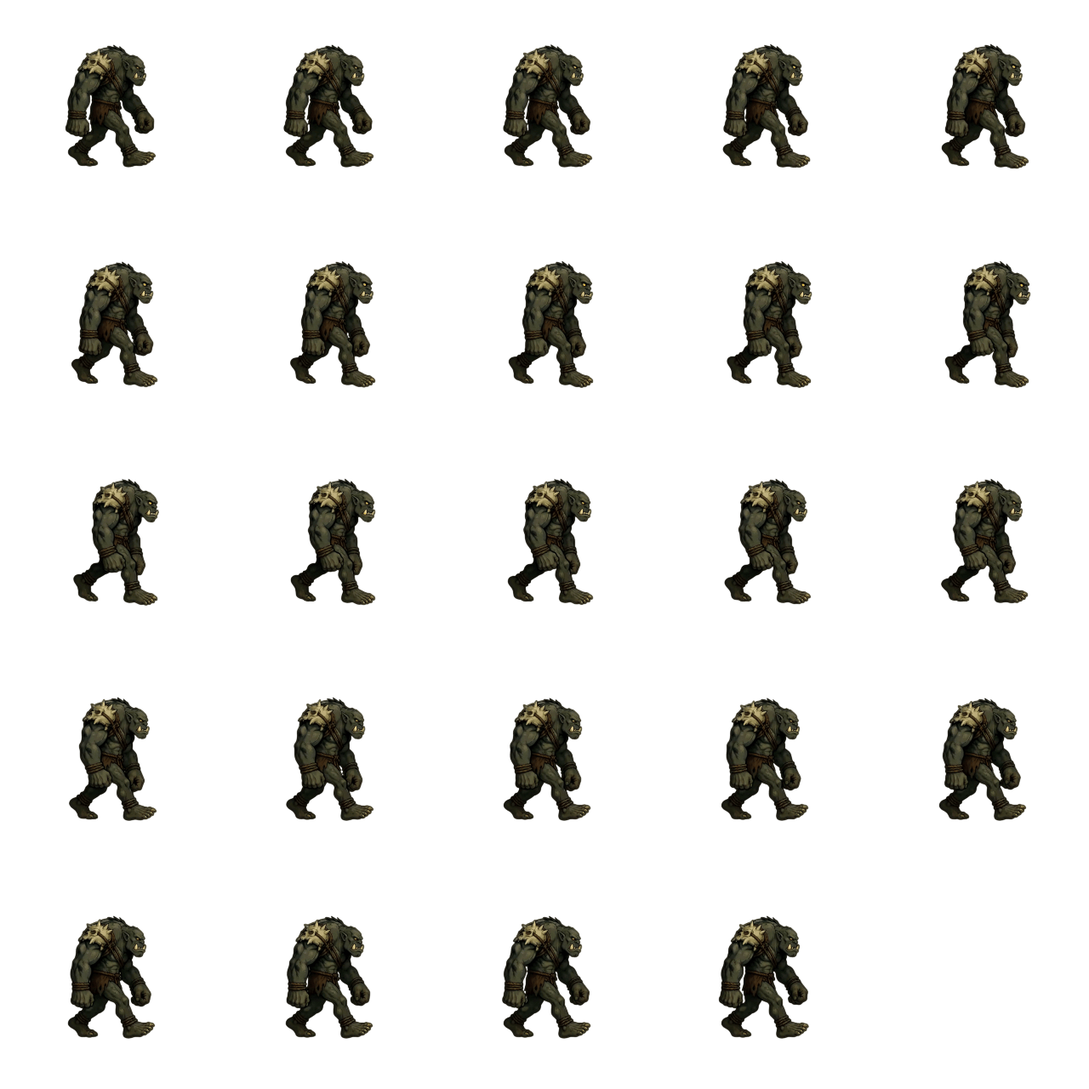
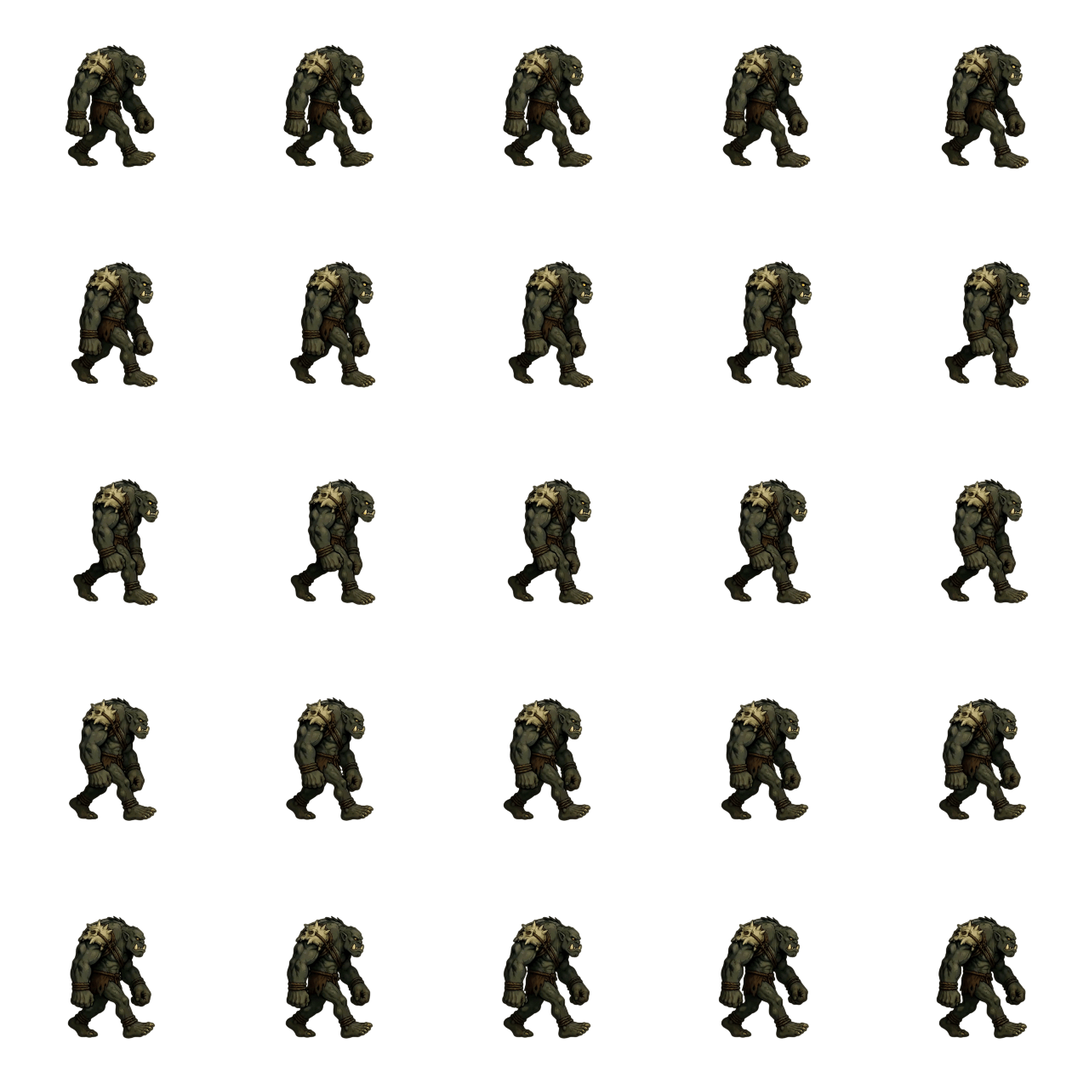
v1.60

Changed region(s): [[0.8438, 0.8438, 0.9375, 0.9688]]

diff --git a/test/simulate.js b/test/simulate.js
@@ -520,7 +520,7 @@ function testV149() {
   assert(oc && oc.gazeFov > 0 && oc.gazeRange > 0, 'ha un campo visivo (gazeFov + gazeRange)');
   assert(oc && oc.gazeCycle > 0, 'le eyestalks RUOTANO: alterna il tipo di sguardo (gazeCycle)');
   assert(Mon.ORDER.indexOf('occhio') >= 0, 'occhio presente nell ORDER del bestiario');
-  assert(Waves.poolForWave(15).some(x => x.id === 'occhio'), 'Beholder nel pool dall ondata 15 (v1.58: tardi e col tetto di presenze)');
+  assert(Waves.poolForWave(10).some(x => x.id === 'occhio'), 'Beholder nel pool dall ondata 10 (col tetto di presenze)');
   const dt = 1 / C.TICK_RATE;
   const room = new Room('v149'); const pl = room.addPlayer('b', { send() {} }, 'B', 'enforcer'); room.startGame();
   room.pending = 0; room.waveList = []; pl.hp = 9999; pl.maxHp = 9999;
@@ -605,7 +605,7 @@ function testV150() {
   assert(!at(1).includes('slime') && at(2).includes('slime'), 'Melma Corrosiva introdotta all ondata 2');
   assert(!at(2).includes('darkmage') && at(3).includes('darkmage'), 'Negromante introdotto all ondata 3');
   assert(!at(3).includes('cave_brute') && at(4).includes('cave_brute'), 'Troll introdotto all ondata 4');
-  assert(!at(14).includes('occhio') && at(15).includes('occhio'), 'Beholder introdotto all ondata 15');
+  assert(!at(9).includes('occhio') && at(10).includes('occhio'), 'Beholder introdotto all ondata 10');
   let mono = true; for (let w = 1; w < 20; w++) { const a = at(w), b = at(w + 1); if (!a.every(id => b.includes(id))) mono = false; }
   assert(mono, 'rampa monotona: nessun archetipo sparisce al crescere delle ondate');
   // 2) ELITE: i nemici gia robusti non devono esplodere di PV
@@ -857,8 +857,8 @@ function testV158() {
   // ---------- BEHOLDER: tardi e col tetto ----------
   const oc = Mon.MONSTERS.occhio;
   assert(oc.maxAlive === 8, 'il Beholder ha un tetto di 8 presenze contemporanee');
-  assert(!Waves.poolForWave(14).some(x => x.id === 'occhio'), 'niente Beholder prima dell ondata 15');
-  assert(Waves.poolForWave(15).some(x => x.id === 'occhio'), 'Beholder nel pool dall ondata 15');
+  assert(!Waves.poolForWave(9).some(x => x.id === 'occhio'), 'niente Beholder prima dell ondata 10');
+  assert(Waves.poolForWave(10).some(x => x.id === 'occhio'), 'Beholder nel pool dall ondata 10');
   const r4 = new Room('v158d'); r4.addPlayer('b', { send() {} }, 'B', 'enforcer'); r4.startGame();
   r4.pending = 0; r4.waveList = []; r4.monsters.length = 0;
   for (let i = 0; i < 12; i++) { const t = r4._capType('occhio'); const pos = r4.randomSpawnPos();
@@ -907,6 +907,50 @@ function testV159() {
   assert(hasNaN(room) === null, 'nessun NaN col Beholder aggiornato');
   ok('novita v1.59 verificate');
 }
+function testV160() {
+  console.log('\n[TEST 31] Novita v1.60 — Troll: ancora, impatto e passo allineati; Beholder dall ondata 10');
+  const Mon = require('../shared/monsters.js');
+  const man = JSON.parse(require('fs').readFileSync(__dirname + '/../public/assets/enemies/troll_sheet/troll.json', 'utf8'));
+  const br = Mon.MONSTERS.cave_brute;
+
+  // il manifest descrive davvero le lastre: 5x5 celle da 256 = 1280x1280
+  assert(man.cols * man.cell === 1280 && man.rows * man.cell === 1280, 'la griglia del manifest copre la lastra (1280x1280)');
+  assert(man.anims.idle.frames <= man.cols * man.rows && man.anims.walk.frames <= 25 && man.anims.attack.frames <= 25, 'i conteggi dei fotogrammi stanno nella griglia');
+
+  // ANCORA: le tre animazioni devono poggiare sulla stessa linea del terreno.
+  // Misurate sui PNG nuovi: piedi a y 196-199 (idle), 196-202 (walk), 215-221 (attack).
+  // Prima l'attacco era ancorato a 205 e il troll "saltava" di 11px ogni volta che colpiva.
+  const feet = { idle: 198, walk: 199, attack: 216 };
+  for (const k of ['idle', 'walk', 'attack']) {
+    assert(Math.abs(man.anims[k].ay - feet[k]) <= 3, 'ancora ' + k + ' sulla linea dei piedi (ay ' + man.anims[k].ay + ', atteso ~' + feet[k] + ')');
+  }
+
+  // IMPATTO: il fotogramma della martellata deve coincidere con l'istante in cui il server fa danno.
+  assert(man.anims.attack.hitFrame != null, 'il manifest dichiara il fotogramma d impatto');
+  assert(man.anims.attack.hitFrame === 15, 'l impatto e al fotogramma 15 (misurato: piedi a 221, testa a 88)');
+  assert(br.slamHit > 0 && br.slamHit < 1, 'il server ha un istante di danno normalizzato (slamHit ' + br.slamHit + ')');
+  // la mappatura a due tratti manda hitFrame esattamente su slamHit
+  const A = man.anims.attack, hf = A.hitFrame, hp = br.slamHit;
+  const frameAt = (a) => { const f = (a <= hp) ? Math.pow(a / hp, 0.72) * hf : hf + ((a - hp) / (1 - hp)) * (A.frames - 1 - hf);
+    return Math.max(0, Math.min(A.frames - 1, Math.round(f))); };
+  assert(frameAt(hp) === hf, 'a slamHit si vede esattamente il fotogramma d impatto');
+  assert(frameAt(0) === 0 && frameAt(1) === A.frames - 1, 'la mappatura copre tutta l animazione');
+  let mono = true; for (let i = 1; i <= 20; i++) if (frameAt(i / 20) < frameAt((i - 1) / 20)) mono = false;
+  assert(mono, 'la mappatura non torna mai indietro');
+
+  // PASSO AGGANCIATO AL TERRENO: il manifest dichiara quanti px copre un ciclo completo
+  assert(man.anims.walk.cyclePx > 0, 'la camminata dichiara cyclePx (passo agganciato alla distanza)');
+  const eff = br.speed * Math.max(0.6, Math.min(1.45, 16 / br.radius));
+  const cyclesPerSec = eff / man.anims.walk.cyclePx;
+  assert(cyclesPerSec > 0.1 && cyclesPerSec < 1.2, 'a velocita nominale la cadenza e plausibile (' + cyclesPerSec.toFixed(2) + ' cicli/s)');
+  assert(man.blend > 0, 'e dichiarata la dissolvenza fra animazioni');
+
+  // BEHOLDER dall ondata 10
+  assert(!Waves.poolForWave(9).some(x => x.id === 'occhio'), 'niente Beholder alla 9');
+  assert(Waves.poolForWave(10).some(x => x.id === 'occhio'), 'Beholder dalla 10');
+  assert(Mon.MONSTERS.occhio.maxAlive === 8, 'il tetto di 8 presenze resta');
+  ok('novita v1.60 verificate');
+}
 function testV147() {
   console.log('\n[TEST 22] Novita v1.47 — Troll delle Caverne reso con SPRITE SHEET animato (idle/walk/attack)');
   const Mon = require('../shared/monsters.js');
@@ -929,8 +973,8 @@ function testV147() {
   assert(hasNaN(room) === null, 'nessun NaN col Troll sprite-sheet in campo');
   ok('novita v1.47 verificate');
 }
-console.log('=================================================='); console.log('  DUNGEON RIFT — SUITE DI TEST (v1.59)'); console.log('==================================================');
+console.log('=================================================='); console.log('  DUNGEON RIFT — SUITE DI TEST (v1.60)'); console.log('==================================================');
 const T0 = Date.now();
-testMapThemes(); testLives(); testBoons(); testWeaponEvo(); testModes(); testHitstop(); testXpItems(); testV16(); testV17(); testV18(); testV19(); testV110(); testV111(); testV112(); testV113(); testV139(); testV142(); testV143(); testV145(); testV147(); testV149(); testV150(); testV151(); testV152(); testV153(); testV157(); testV158(); testV159(); testSanity(); testFullRun(1, 'solo'); testFullRun(3, 'trio'); testFullRun(6, 'stress');
+testMapThemes(); testLives(); testBoons(); testWeaponEvo(); testModes(); testHitstop(); testXpItems(); testV16(); testV17(); testV18(); testV19(); testV110(); testV111(); testV112(); testV113(); testV139(); testV142(); testV143(); testV145(); testV147(); testV149(); testV150(); testV151(); testV152(); testV153(); testV157(); testV158(); testV159(); testV160(); testSanity(); testFullRun(1, 'solo'); testFullRun(3, 'trio'); testFullRun(6, 'stress');
 console.log('\n=================================================='); console.log(`  RISULTATO: ${PASS} passati, ${FAIL} falliti  (${((Date.now() - T0) / 1000).toFixed(1)}s)`); console.log('==================================================');
 process.exit(FAIL > 0 ? 1 : 0);

diff --git a/public/js/renderer.js b/public/js/renderer.js
@@ -1277,7 +1277,7 @@
       else if (def.roller) { this._rollerF(ctx, m, rr, def, atk); }   // v1.58 — rotola: l'animazione e una rotazione
       else if (def.beholder) { const pv = moveInfo(m.e); this._beholderPuppet(ctx, m, rr, def, atk, !!pv.on, pv.dir); } // v1.49 — BEHOLDER (raster puppet: corpo ritagliato + iris che segue + eyestalks che avvampano nel colore dello sguardo)
       else if (def.sheet) { const pv = moveInfo(m.e); const flip = Math.cos(m.f) < 0 ? -1 : 1; // v1.47 — SPRITE SHEET (troll animato)
-        if (!this._drawSheet(def.sheet, ctx, m, rr, def, atk, !!pv.on, flip, m.fl > 0)) { ctx.rotate(m.f); this._shape(ctx, def.shape || 'imp', rr, bodyc, dk, def.eye || '#fff', this.time, atk); } }
+        if (!this._drawSheet(def.sheet, ctx, m, rr, def, atk, !!pv.on, flip, m.fl > 0, pv)) { ctx.rotate(m.f); this._shape(ctx, def.shape || 'imp', rr, bodyc, dk, def.eye || '#fff', this.time, atk); } }
       else if (def.front) { const flip = Math.cos(m.f) < 0 ? -1 : 1; const back = Math.sin(m.f) < -0.35; let moving = false; if (def.puppet) { moving = !!moveInfo(m.e).on; } this._front(ctx, def.shape, rr, bodyc, dk, def.eye || '#fff', this.time, atk, back, flip, moving, m.fl > 0, m.el); } // v1.30 billboard · v1.36 movimento · v1.38 hit · v1.39 elite (tint)
       else { ctx.rotate(m.f); this._shape(ctx, def.shape || 'imp', rr, bodyc, dk, def.eye || '#fff', this.time, atk); }
       ctx.restore();
@@ -1604,33 +1604,72 @@
     // v1.47 — RENDER SPRITE-SHEET: sceglie l'animazione (idle/walk/attack), il frame (dal tempo o dalla fase
     // d'attacco), ritaglia la cella dalla griglia e la disegna ancorata ai PIEDI. Mirror orizzontale per direzione.
     // Il contesto è già traslato su (m.x, m.y). Ritorna false se gli asset non sono pronti (fallback al chiamante).
-    _drawSheet(key, ctx, m, r, def, atk, moving, flip, hit) {
+    _drawSheet(key, ctx, m, r, def, atk, moving, flip, hit, pv) {
       const reg = SHEETS[key]; reg.load(); if (!reg.ready) return false;
-      const man = reg.man, cell = man.cell, cols = man.cols;
-      // stato → animazione
-      let animName = (atk && atk > 0.001) ? 'attack' : (moving ? 'walk' : 'idle');
-      let A = man.anims[animName] || man.anims.idle; let img = reg.imgs[animName] || reg.imgs.idle;
-      if (!img) { animName = 'idle'; A = man.anims.idle; img = reg.imgs.idle; if (!img) return false; }
-      // frame: one-shot (attacco) mappa la fase atk 0..1; altrimenti loop temporale a fps
-      let fi;
-      if (A.oneShot) fi = Math.max(0, Math.min(A.frames - 1, Math.floor((atk || 0) * A.frames)));
-      else fi = Math.floor(this.time * A.fps + (m.e || 0) * 0.7) % A.frames; // sfasa i cloni
-      const col = fi % cols, row = (fi / cols) | 0, sxp = col * cell, syp = row * cell;
-      const s = (2.9 * r) / man.charH;         // scala: altezza personaggio ≈ 2.9·raggio (tank imponente)
-      const dw = cell * s, dh = cell * s;
-      // v1.48 — OMBRA propria ai PIEDI: il contesto è già su (m.x,m.y) e l'anchor (ax,ay) cade qui → piedi all'origine.
-      // Piccola ellisse sfocata proprio sotto i piedi (niente più ombra generica staccata/troppo bassa).
+      const man = reg.man, cell = man.cell, cols = man.cols, t = this.time;
+      // v1.60 — stato per-entita'. Serve per tre cose che una funzione pura del tempo non puo' fare:
+      // la DISTANZA percorsa (per agganciare il passo al terreno), la DISSOLVENZA fra due animazioni
+      // e il VERSO smorzato. Senza, i piedi slittano e ogni cambio di stato e' uno scatto.
+      const ST = this._shS = this._shS || {};
+      const S = ST[m.e] = ST[m.e] || { x: m.x, y: m.y, d: 0, anim: null, prev: null, prevFi: 0, fi: 0, fade: 1, flip: flip, lt: t };
+      const dt = Math.max(0.001, Math.min(0.05, t - S.lt)); S.lt = t;
+      S.d += Math.hypot(m.x - S.x, m.y - S.y); S.x = m.x; S.y = m.y;
+
+      const animName = (atk && atk > 0.001) ? 'attack' : (moving ? 'walk' : 'idle');
+      if (S.anim !== animName) { S.prev = S.anim; S.prevFi = S.fi; S.anim = animName; S.fade = 0; }
+      S.fade = Math.min(1, S.fade + dt / (man.blend || 0.14));
+
+      const frameOf = (A) => {
+        if (A.oneShot) {
+          // v1.60 — mappatura a DUE TRATTI ancorata al fotogramma d'impatto. Prima era lineare:
+          // con 25 fotogrammi la martellata si vedeva al 15 (0.60) ma il danno arriva a slamHit (0.72),
+          // cioe' tre fotogrammi dopo. Si vedeva colpire e si subiva un attimo dopo.
+          // In piu' i primi 7 fotogrammi sono una posa ferma: la curva (^0.72) li brucia in fretta e
+          // indugia sul caricamento, che e' dove serve l'anticipo.
+          const hf = (A.hitFrame != null) ? A.hitFrame : Math.round(A.frames * 0.6);
+          const hp = def.slamHit || 0.72;
+          const a = Math.max(0, Math.min(1, atk || 0));
+          const f = (a <= hp) ? Math.pow(a / (hp || 1), 0.72) * hf
+                              : hf + ((a - hp) / (1 - hp)) * (A.frames - 1 - hf);
+          return Math.max(0, Math.min(A.frames - 1, Math.round(f)));
+        }
+        if (A.cyclePx) {
+          // v1.60 — PASSO AGGANCIATO AL TERRENO: la fase viene dalla distanza percorsa, non dall'orologio.
+          // Cosi' i piedi non slittano mai, e se la velocita' cambia (elite, rallentamenti, scaling)
+          // la cadenza si adegua da sola invece di restare a fps fisso.
+          return Math.floor((S.d / A.cyclePx) * A.frames + (m.e || 0) * 0.7) % A.frames;
+        }
+        return Math.floor(t * A.fps + (m.e || 0) * 0.7) % A.frames;
+      };
+
+      // v1.60 — il verso non si ribalta di scatto: passa per lo zero, quindi il troll si "gira" schiacciandosi
+      S.flip += (flip - S.flip) * Math.min(1, dt * 13);
+      const fx = Math.abs(S.flip) < 0.05 ? (S.flip < 0 ? -0.05 : 0.05) : S.flip;
+
+      // ombra propria ai piedi (l'anchor cade sull'origine): non ruota col verso
       ctx.save(); ctx.filter = 'blur(' + Math.max(1, r * 0.10).toFixed(1) + 'px)'; ctx.fillStyle = 'rgba(0,0,0,0.42)';
       ctx.beginPath(); ctx.ellipse(0, -r * 0.04, r * 0.72, r * 0.24, 0, 0, 7); ctx.fill(); ctx.restore();
-      ctx.save();
-      if (flip < 0) ctx.scale(-1, 1);
-      const ox = -A.ax * s, oy = -A.ay * s;    // sposta la cella così che l'anchor (ax,ay) sia sul punto-terra
-      if (hit) ctx.filter = 'brightness(1.7) saturate(1.2)'; // hit-flash
-      ctx.imageSmoothingEnabled = true;
-      ctx.drawImage(img, sxp, syp, cell, cell, ox, oy, dw, dh);
-      ctx.restore();
+
+      const s = (2.9 * r) / man.charH, dw = cell * s, dh = cell * s;
+      const drawOne = (nm, fi, alpha) => {
+        const A = man.anims[nm]; const img = reg.imgs[nm]; if (!A || !img) return;
+        const c0 = fi % cols, r0 = (fi / cols) | 0;
+        ctx.save(); ctx.globalAlpha = ctx.globalAlpha * alpha; ctx.scale(fx, 1);
+        if (hit) ctx.filter = 'brightness(1.7) saturate(1.2)';
+        ctx.imageSmoothingEnabled = true;
+        ctx.drawImage(img, c0 * cell, r0 * cell, cell, cell, -A.ax * s, -A.ay * s, dw, dh);
+        ctx.restore();
+      };
+
+      const A = man.anims[animName] || man.anims.idle;
+      if (!reg.imgs[animName] && !reg.imgs.idle) return false;
+      const fi = frameOf(A); S.fi = fi;
+      // dissolvenza: l'animazione uscente sfuma mentre entra la nuova (prima era un taglio netto)
+      if (S.prev && S.prev !== animName && S.fade < 1) drawOne(S.prev, S.prevFi, 1 - S.fade);
+      drawOne(animName, fi, S.fade);
       return true;
     },
+
     _zombieF(ctx, r, col, dk, eye, t, atk, back) {
       const D = '#0a0c12'; const phase = t * 7; const walk = Math.sin(phase); const bob = Math.sin(phase * 2) * r * 0.05;
       const swing = Math.sin((atk || 0) * Math.PI); const lp = (a, b) => a + (b - a) * swing;

diff --git a/public/index.html b/public/index.html
@@ -3,7 +3,7 @@
 <head>
 <meta charset="utf-8">
 <meta name="viewport" content="width=device-width, initial-scale=1, maximum-scale=1, user-scalable=no">
-<title>DUNGEON RIFT v1.59.0 — Roguelike Co-op</title>
+<title>DUNGEON RIFT v1.60.0 — Roguelike Co-op</title>
 <link rel="stylesheet" href="/style.css">
 </head>
 <body>
@@ -50,7 +50,7 @@
 </div>
 <div id="menu">
   <div class="menu-card">
-    <h1>DUNGEON <span>RIFT</span> <small id="verBadge" class="ver">v1.59.0</small></h1>
+    <h1>DUNGEON <span>RIFT</span> <small id="verBadge" class="ver">v1.60.0</small></h1>
     <p class="tag">Roguelike co-op frenetico · fino a 6 giocatori</p>
     <div class="field"><label>Nome</label><input id="nameInput" maxlength="16" value=""></div>
     <div class="field"><label>Stanza <small>(vuoto = matchmaking)</small></label><input id="roomInput" maxlength="24" placeholder="es. amici123"></div>

diff --git a/shared/waves.js b/shared/waves.js
@@ -42,7 +42,7 @@
     if (w >= 4) add('cave_brute', 8);     // tank con slam ad area
     if (w >= 5) add('spore_fungus', 10);  // immobile: nega il terreno, punisce chi sta fermo
     if (w >= 7) add('bone_roller', 9);    // carica in linea retta: obbliga a schivare di lato
-    if (w >= 15) add('occhio', 9);        // debuffer tier 3, tardi e col tetto di 8 vivi (def.maxAlive)
+    if (w >= 10) add('occhio', 9);        // debuffer tier 3, dal secondo boss, col tetto di 8 vivi (def.maxAlive)
     return p;
   }
 

diff --git a/shared/constants.js b/shared/constants.js
@@ -6,7 +6,7 @@
 })(typeof self !== 'undefined' ? self : this, function () {
   'use strict';
   const C = {
-    VERSION: '1.59.0',
+    VERSION: '1.60.0',
     // v1.51 — level up fra le ondate
     BOON_CHOICES: 3,          // carte potere offerte a fine ondata (se ne sceglie UNA)
     SHOP_GEAR_ENABLED: false, // Emporio a monete NASCOSTO in attesa di ridisegno

diff --git a/CHANGELOG.md b/CHANGELOG.md
@@ -2,6 +2,48 @@
 
 Tutte le modifiche rilevanti del progetto, versione per versione (dalla più recente).
 
+### [1.60.0] — 2026-08-26 · "Il Troll smette di essere legnoso"
+
+Lastre nuove fornite dall'artista (stessa griglia 5×5 @256px). Prima di toccare il codice le ho **misurate
+frame per frame** con Pillow: l'alpha di ogni cella dice dove sono i piedi, la testa e il centro. Tre difetti
+venivano dai numeri, non dal disegno.
+
+#### 📏 L'ancora dell'attacco era sbagliata di 11px
+- Misurato sui PNG: piedi a y **196-199** (idle), **196-202** (walk), **215-221** (attack). Il manifest
+  dichiarava `ay 205` per l'attacco: il troll **saltava di 11px** ogni volta che colpiva, e ne rientrava
+  finita l'animazione. È il classico difetto che si legge come "legnoso" senza che si capisca perché.
+- Corretto a **216**. Ora le tre animazioni poggiano sulla stessa linea del terreno.
+
+#### 🔨 La martellata arrivava tre fotogrammi prima del danno
+- L'impatto visivo è al **fotogramma 15** (misurato: piedi a 221, il punto più basso; testa che crolla da 5 a
+  88). Il server infligge il danno a `slamHit 0.72`, che con la mappatura lineare mostrava il **fotogramma
+  18** — la posa di recupero. Vedevi colpire e incassavi un attimo dopo.
+- Nuova mappatura a **due tratti** ancorata a `hitFrame`: 0→15 su 0→slamHit, 15→24 su slamHit→1. L'impatto
+  cade esattamente sul danno **qualunque** valore abbia `slamHit`.
+- I primi **7 fotogrammi sono una posa ferma** (area e posizione identiche): la curva `^0.72` li brucia in
+  fretta e indugia sul caricamento, dove l'anticipo serve davvero.
+
+#### 👣 Il passo è agganciato al terreno
+- La camminata non va più a fps fisso ma a **distanza percorsa** (`cyclePx`, come per la Sfera d'Ossa). I
+  piedi non slittano più, e se la velocità cambia — elite, rallentamenti, scaling d'ondata — la cadenza si
+  adegua da sola invece di restare inchiodata a 13 fps.
+
+#### 🎞 Dissolvenza fra animazioni e giro del verso
+- I cambi idle↔walk↔attack erano **tagli netti**. Ora c'è una dissolvenza di **0.14s** (`blend` nel manifest).
+- Il verso non si ribalta di scatto: passa per lo zero, quindi il troll si **gira** schiacciandosi invece di
+  specchiarsi in un fotogramma.
+
+#### 👁 Beholder dall'ondata 10
+- Era alla 15, ora entra dalla **10** (secondo boss). Il tetto di 8 presenze resta.
+
+#### 🧪 Test
+- Nuovo **testV160**: verifica che il manifest descriva davvero le lastre, che le tre ancore stiano sulla
+  linea dei piedi **misurata**, che la mappatura a due tratti mandi `hitFrame` esattamente su `slamHit` e
+  non torni mai indietro, e che la cadenza del passo a velocità nominale sia plausibile.
+  **384 passati, 0 falliti.**
+
+---
+
 ### [1.59.0] — 2026-08-26 · "Il Beholder smette di essere una boa"
 
 Nella 1.58 del Beholder erano cambiati solo i numeri (ondata 15, tetto di 8). Qui cambia come si muove.

diff --git a/ROSTER.md b/ROSTER.md
@@ -3,7 +3,7 @@
 > Scheda di riferimento rapido di **tutti** i nemici del gioco. Per la **tecnica** di realizzazione (raster puppet,
 > sprite sheet, slicing, animazioni) vedi `ENEMIES.md`. Per la cronologia versioni vedi `CHANGELOG.md`.
 
-**Versione:** `1.59.0` · **Render:** due metodi convivono — **RASTER PUPPET** (illustrazione ritagliata in pezzi,
+**Versione:** `1.60.0` · **Render:** due metodi convivono — **RASTER PUPPET** (illustrazione ritagliata in pezzi,
 animata via rig) per Zombie, Negromante, Melma e Beholder; **SPRITE SHEET** frame-by-frame per il Troll (dalla 1.47).
 
 > ⚠ **Gli id nel codice non corrispondono ai nomi.** `skeleton` = Zombie Putrido · `cave_brute` = Troll delle
@@ -42,7 +42,7 @@ per i nemici d'ondata).
 | 4 | 🟠 Troll delle Caverne | 8 |
 | 5 | 🍄 Fungo Sporifero | 10 |
 | 7 | 💀 Sfera d'Ossa | 9 |
-| 15 | 👁 Beholder *(max 8 vivi)* | 9 |
+| 10 | 👁 Beholder *(max 8 vivi)* | 9 |
 
 La rampa è **monotona**: una volta entrato, un archetipo non esce più dal pool (verificato da `testV150`).
 
@@ -96,6 +96,9 @@ Tank da mischia: lento e telegrafato, ma se ti raggiunge fa malissimo. Colpo ad 
 - **IA:** `brute` · **Gittata att.:** 72 · **Cooldown:** 2.1s · **Raggio slam:** 108 · **XP:** 26
 - **Accento:** `#ffb14a` · **Render:** **SPRITE SHEET** `troll` (idle/walk/attack, 3 fogli 5×5 @256px) · **Comparsa:** ondata 4
 - **Elite:** `eliteHp 1.5` *(v1.50)* — moltiplicatore PV ridotto rispetto al 2.4 standard, altrimenti fuori scala.
+- *(v1.60)* Lastre nuove, misurate frame per frame. Ancora dell'attacco corretta (`ay` 205→216: prima
+  "saltava" di 11px colpendo), **impatto al fotogramma 15** agganciato a `slamHit`, **passo agganciato alla
+  distanza percorsa** (`cyclePx 150`) e dissolvenza di 0.14s fra le animazioni.
 - **Meccaniche:**
   - **SLAM a due tempi** guidato dagli eventi: `slam_wind` (con eid) avvia i 25 frame d'attacco, il danno scatta
     a `slamHit 0.72` dello swing — l'istante in cui il martello tocca terra a schermo. `slamWind 0.78`,
@@ -155,7 +158,7 @@ Niente gambe, niente camminata: si carica e parte come una palla da bowling.
 | 🟠 Troll delle Caverne | `cave_brute` | 2 | 220 | 60 | 26 | 28 | 72 | brute | tank area | 4+ |
 | 🍄 Fungo Sporifero | `spore_fungus` | 1 | 110 | 0 | 20 | 11 | 340 | sentry | zona / immobile | 5+ |
 | 💀 Sfera d'Ossa | `bone_roller` | 2 | 120 | 96 | 19 | 20 | 30 | roller | carica rotolante | 7+ |
-| 👁 Beholder | `occhio` | 3 | 130 | 92 | 22 | 16 | 340 | gazer | debuffer | 15+ (max 8) |
+| 👁 Beholder | `occhio` | 3 | 130 | 92 | 22 | 16 | 340 | gazer | debuffer | 10+ (max 8) |
 | 🟢 Melma Minore *(divisione)* | `slime_mini` | 0 | 34 | 66 | 13 | 7 | 110 | blob | evocato | — |
 | 🟢 Zombie Minore | `zombie_mini` | 0 | 26 | 120 | 12 | 8 | 34 | swarm | evocato | — |
 

diff --git a/ENEMIES.md b/ENEMIES.md
@@ -6,7 +6,7 @@
 > **valori reali**, matematica del renderer, sistema di animazione con **tutte le costanti**, ombra a terra, overlay
 > vettoriale, integrazione dati, checklist di release, ricetta "aggiungi un nuovo puppet" e troubleshooting.
 
-**Versione di riferimento:** `1.59.0` · **Motore:** JavaScript **Canvas 2D** puro, **zero dipendenze** runtime
+**Versione di riferimento:** `1.60.0` · **Motore:** JavaScript **Canvas 2D** puro, **zero dipendenze** runtime
 (gli script di preparazione asset usano **Python + Pillow + scipy**, solo offline).
 
 ---
@@ -669,6 +669,19 @@ naturale, niente rig, niente frame-consistency da combattere perché i frame son
   del danno = frame d'impatto a schermo), `slamRadius 108`. IA invariata (`brute`: FOV-slam, vagabondaggio, anti-incastro).
 - L'attacco è pilotato dal `slam_wind` (con eid): `R.hitAttack(e, dur)` avvia i 25 frame; l'evento `slam` (senza eid)
   aggiunge la scossa/onda d'urto all'impatto.
+
+### C-bis) v1.60 — quello che va MISURATO, non stimato
+Con lastre nuove, prima di toccare il codice conviene misurarle: uno script Pillow che per ogni cella calcola
+il bounding box dell'alpha dice tre cose che a occhio non si vedono.
+- **`ay` per animazione** = la riga dei piedi (y massimo del contenuto). Se le animazioni hanno `ay` diversi
+  dalla loro riga dei piedi reale, il mostro **salta** passando da una all'altra. Nella v1.60 l'attacco era
+  ancorato a 205 con i piedi a 216: 11px di scarto.
+- **Fotogramma d'impatto** = quello col contenuto piu' basso (i piedi affondano) e la testa piu' bassa. Va
+  dichiarato come `hitFrame` e agganciato a `slamHit`, altrimenti il colpo si vede prima del danno.
+- **Fotogrammi morti** = celle con area e posizione identiche in testa all'animazione. Vanno bruciati con una
+  curva (`^0.72`) invece di occupare un quinto del tempo utile.
+Il passo va poi agganciato alla **distanza percorsa** (`cyclePx`), mai a fps fisso: e' l'unico modo perche' i
+piedi non slittino quando la velocita' cambia.
 
 ### D) Aggiungere un altro sprite-sheet (ricetta)
 1. PNG (una griglia per animazione, celle uniformi) + `nome.json` (`cols/rows/cell/charH` e per anim `frames/fps/ax/ay`).

diff --git a/CARATTERISTICHE.md b/CARATTERISTICHE.md
@@ -1,10 +1,21 @@
 # ⚔ DUNGEON RIFT — Caratteristiche complete del gioco
 
-**Versione attuale:** `1.59.0`
+**Versione attuale:** `1.60.0`
 Roguelike co-op frenetico per **fino a 6 giocatori**, motore **custom a dipendenze zero** (Node.js + Canvas 2D):
 niente `npm install`, niente asset esterni — grafica, musica ed effetti sono **generati proceduralmente**.
 
 ---
+
+## 🪓 Il Troll smette di essere legnoso *(novita v1.60)*
+- Con le lastre nuove, tre difetti che sembravano di disegno erano in realta' **di numeri**, trovati misurando
+  i fotogrammi uno per uno: l'attacco era ancorato 11px troppo in alto (il troll *saltava* colpendo), la
+  martellata si vedeva **tre fotogrammi prima** del momento in cui il danno arriva davvero, e il passo andava
+  a cadenza fissa mentre il corpo si muoveva a un'altra velocita' (i piedi slittavano).
+- Ora le tre animazioni poggiano sulla stessa linea, l'impatto coincide con il danno, e il **passo e'
+  agganciato alla distanza percorsa**: se il troll rallenta o accelera, la camminata lo segue.
+- I passaggi fra fermo, cammino e attacco hanno una **dissolvenza**, e il cambio di direzione e' un giro
+  invece di uno specchiamento istantaneo.
+- Il **Beholder** compare dall'ondata 10 invece che dalla 15.
 
 ## 👁 Il Beholder smette di essere una boa *(novita v1.59)*
 - Gli **eyestalks** non sono piu' sette aloni fissi: sono **steli curvi** che ondeggiano ognuno con la sua

diff --git a/README.md b/README.md
@@ -1,4 +1,4 @@
-# ⚔ DUNGEON RIFT v1.59.0 — Roguelike Co-op Multiplayer 2D
+# ⚔ DUNGEON RIFT v1.60.0 — Roguelike Co-op Multiplayer 2D
 
 Roguelike frenetico per **fino a 6 giocatori**. Motore **custom a dipendenze zero** (Node.js + Canvas 2D):
 niente `npm install`, niente asset esterni — grafica, musica ed effetti sono **generati proceduralmente**.
@@ -22,6 +22,17 @@ Test: `npm test`
 | Negozio: pronto | Spazio |
 | Musica | M |
 | Minimappa | sempre visibile (in basso a sinistra) |
+
+## 🆕 Novita v1.60 (il Troll smette di essere legnoso)
+- **📏 Ancora dell'attacco corretta**: era sbagliata di 11px e il troll *saltava* ogni volta che colpiva.
+  Misurata sui PNG nuovi frame per frame.
+- **🔨 Impatto allineato al danno**: la martellata si vedeva 3 fotogrammi prima di quando il server fa danno.
+  Nuova mappatura a due tratti ancorata al fotogramma d'impatto.
+- **👣 Passo agganciato al terreno**: la camminata va a distanza percorsa, non a fps fisso. Niente slittamento,
+  e la cadenza si adegua se la velocita' cambia.
+- **🎞 Dissolvenza di 0.14s** fra le animazioni (prima tagli netti) e giro del verso smorzato.
+- **👁 Beholder dall'ondata 10** invece che dalla 15.
+- Test: **384 passati, 0 falliti**.
 
 ## 🆕 Novita v1.59 (il Beholder smette di essere una boa)
 - **🦑 Eyestalks come appendici**: steli curvi con frequenza e fase proprie, non piu' 7 aloni fissi. Spuntano
